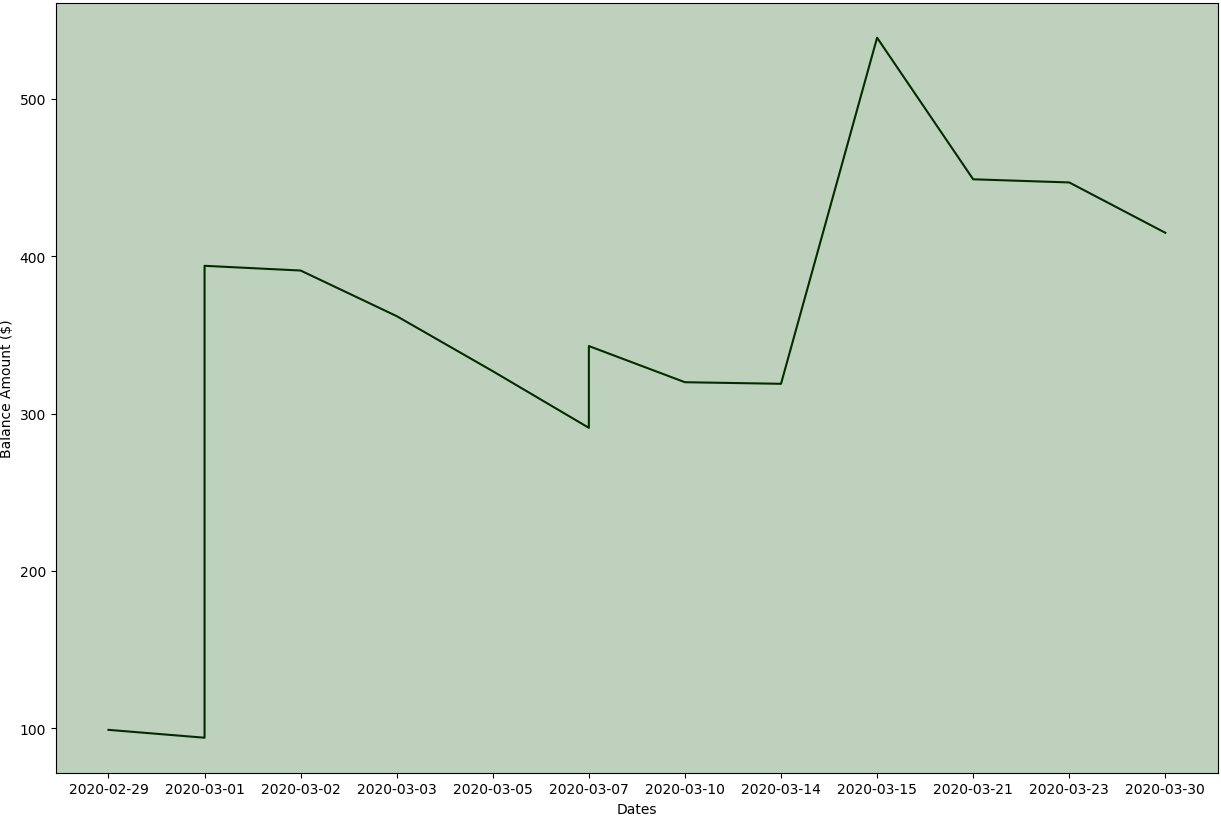
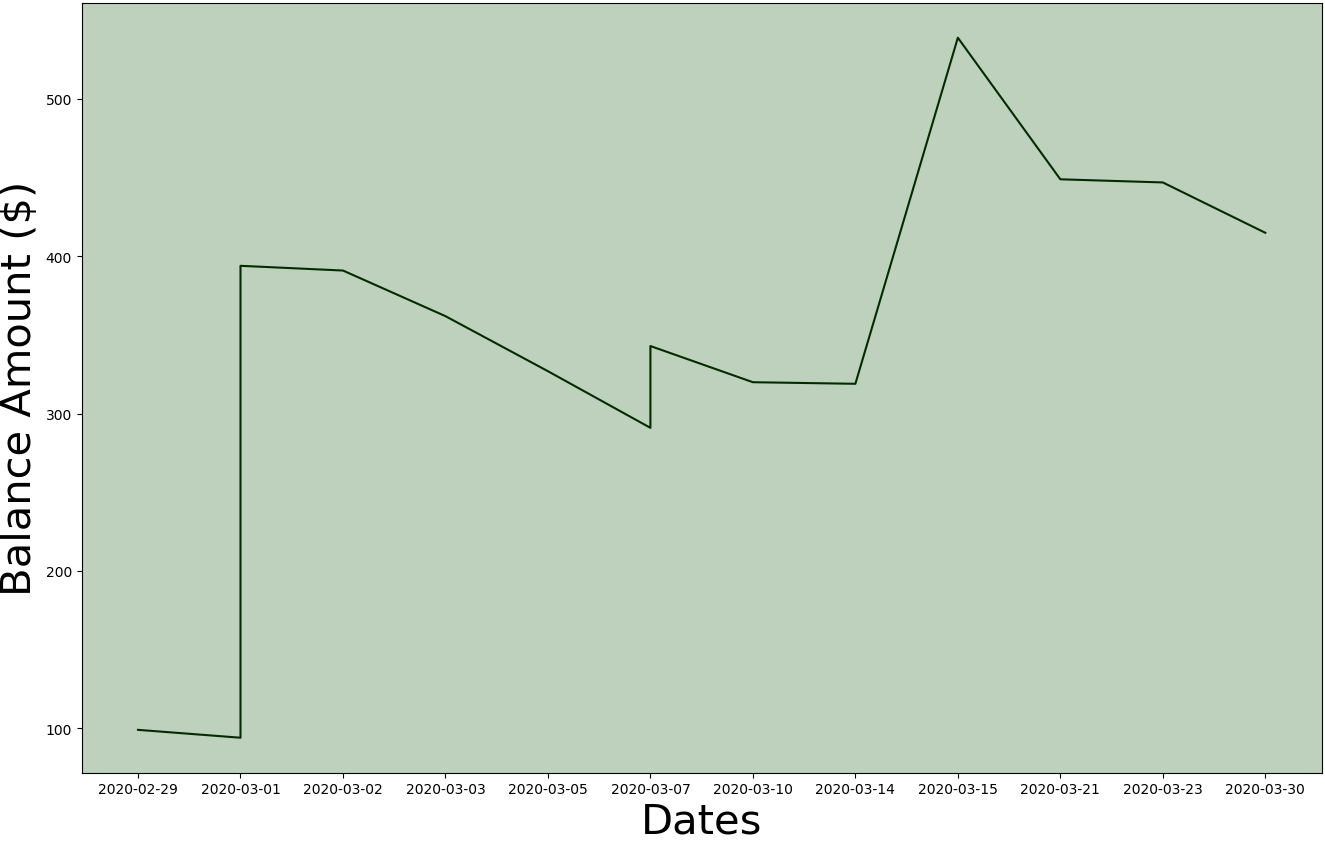
text big

diff --git a/static/css/home.css b/static/css/home.css
@@ -74,6 +74,7 @@ body {
 }
 #graphpic1:hover {
   box-shadow: 0 0 2px 1px rgba(0, 140, 186, 0.5);
+  background-color: white;
 }
 .texthome {
   margin: 5px;

diff --git a/ReportingService.py b/ReportingService.py
@@ -23,7 +23,6 @@ class ReportingService:
         balances = []
         initialBalance = 100
         currentBalance = initialBalance
-        goalBalance = 69
 
         self.withdrawals = connection.GetAllWithdrawals(id).get_withdrawals()
         self.deposits = connection.GetAllDeposits(id).get_deposits()
@@ -55,14 +54,14 @@ class ReportingService:
         for element in list:
             amounts.append(element['amount'])
             dates.append(element['transaction_date'])
-        plt.figure(figsize=(15,10))
+        plt.figure(figsize=(16,10))
         ax = plt.axes()
         ax.set_facecolor("#bed1bc")
         ax.set_alpha(0.5)
         plt.plot(dates,amounts, color = '#042b00')
-
-        plt.xlabel('Dates')
-        plt.ylabel(type+' Amount ($)')
+        plt.tight_layout()
+        plt.xlabel('Dates', fontsize=30)
+        plt.ylabel(type+' Amount ($)', fontsize=30)
         plt.savefig('static/graphs/'+type+"_"+user_id+'.png', bbox_inches='tight', pad_inches = 0)
 
     #creates plot for balance over time
@@ -75,13 +74,13 @@ class ReportingService:
             amounts.append(element[0])
             dates.append(element[1])
         
-        plt.figure(figsize=(15,10))
+        plt.figure(figsize=(16,10))
         ax = plt.axes()
         ax.set_facecolor("#bed1bc")
         ax.set_alpha(0.5)
         plt.plot(dates,amounts, color = '#042b00')
-        plt.xlabel('Dates')
-        plt.ylabel('Balance Amount ($)')
+        plt.xlabel('Dates', fontsize=30)
+        plt.ylabel('Balance Amount ($)', fontsize=30)
         plt.savefig('static/graphs/balance_' +user_id+'.png', bbox_inches='tight', pad_inches = 0)
 
     def generateTable(self, id):
